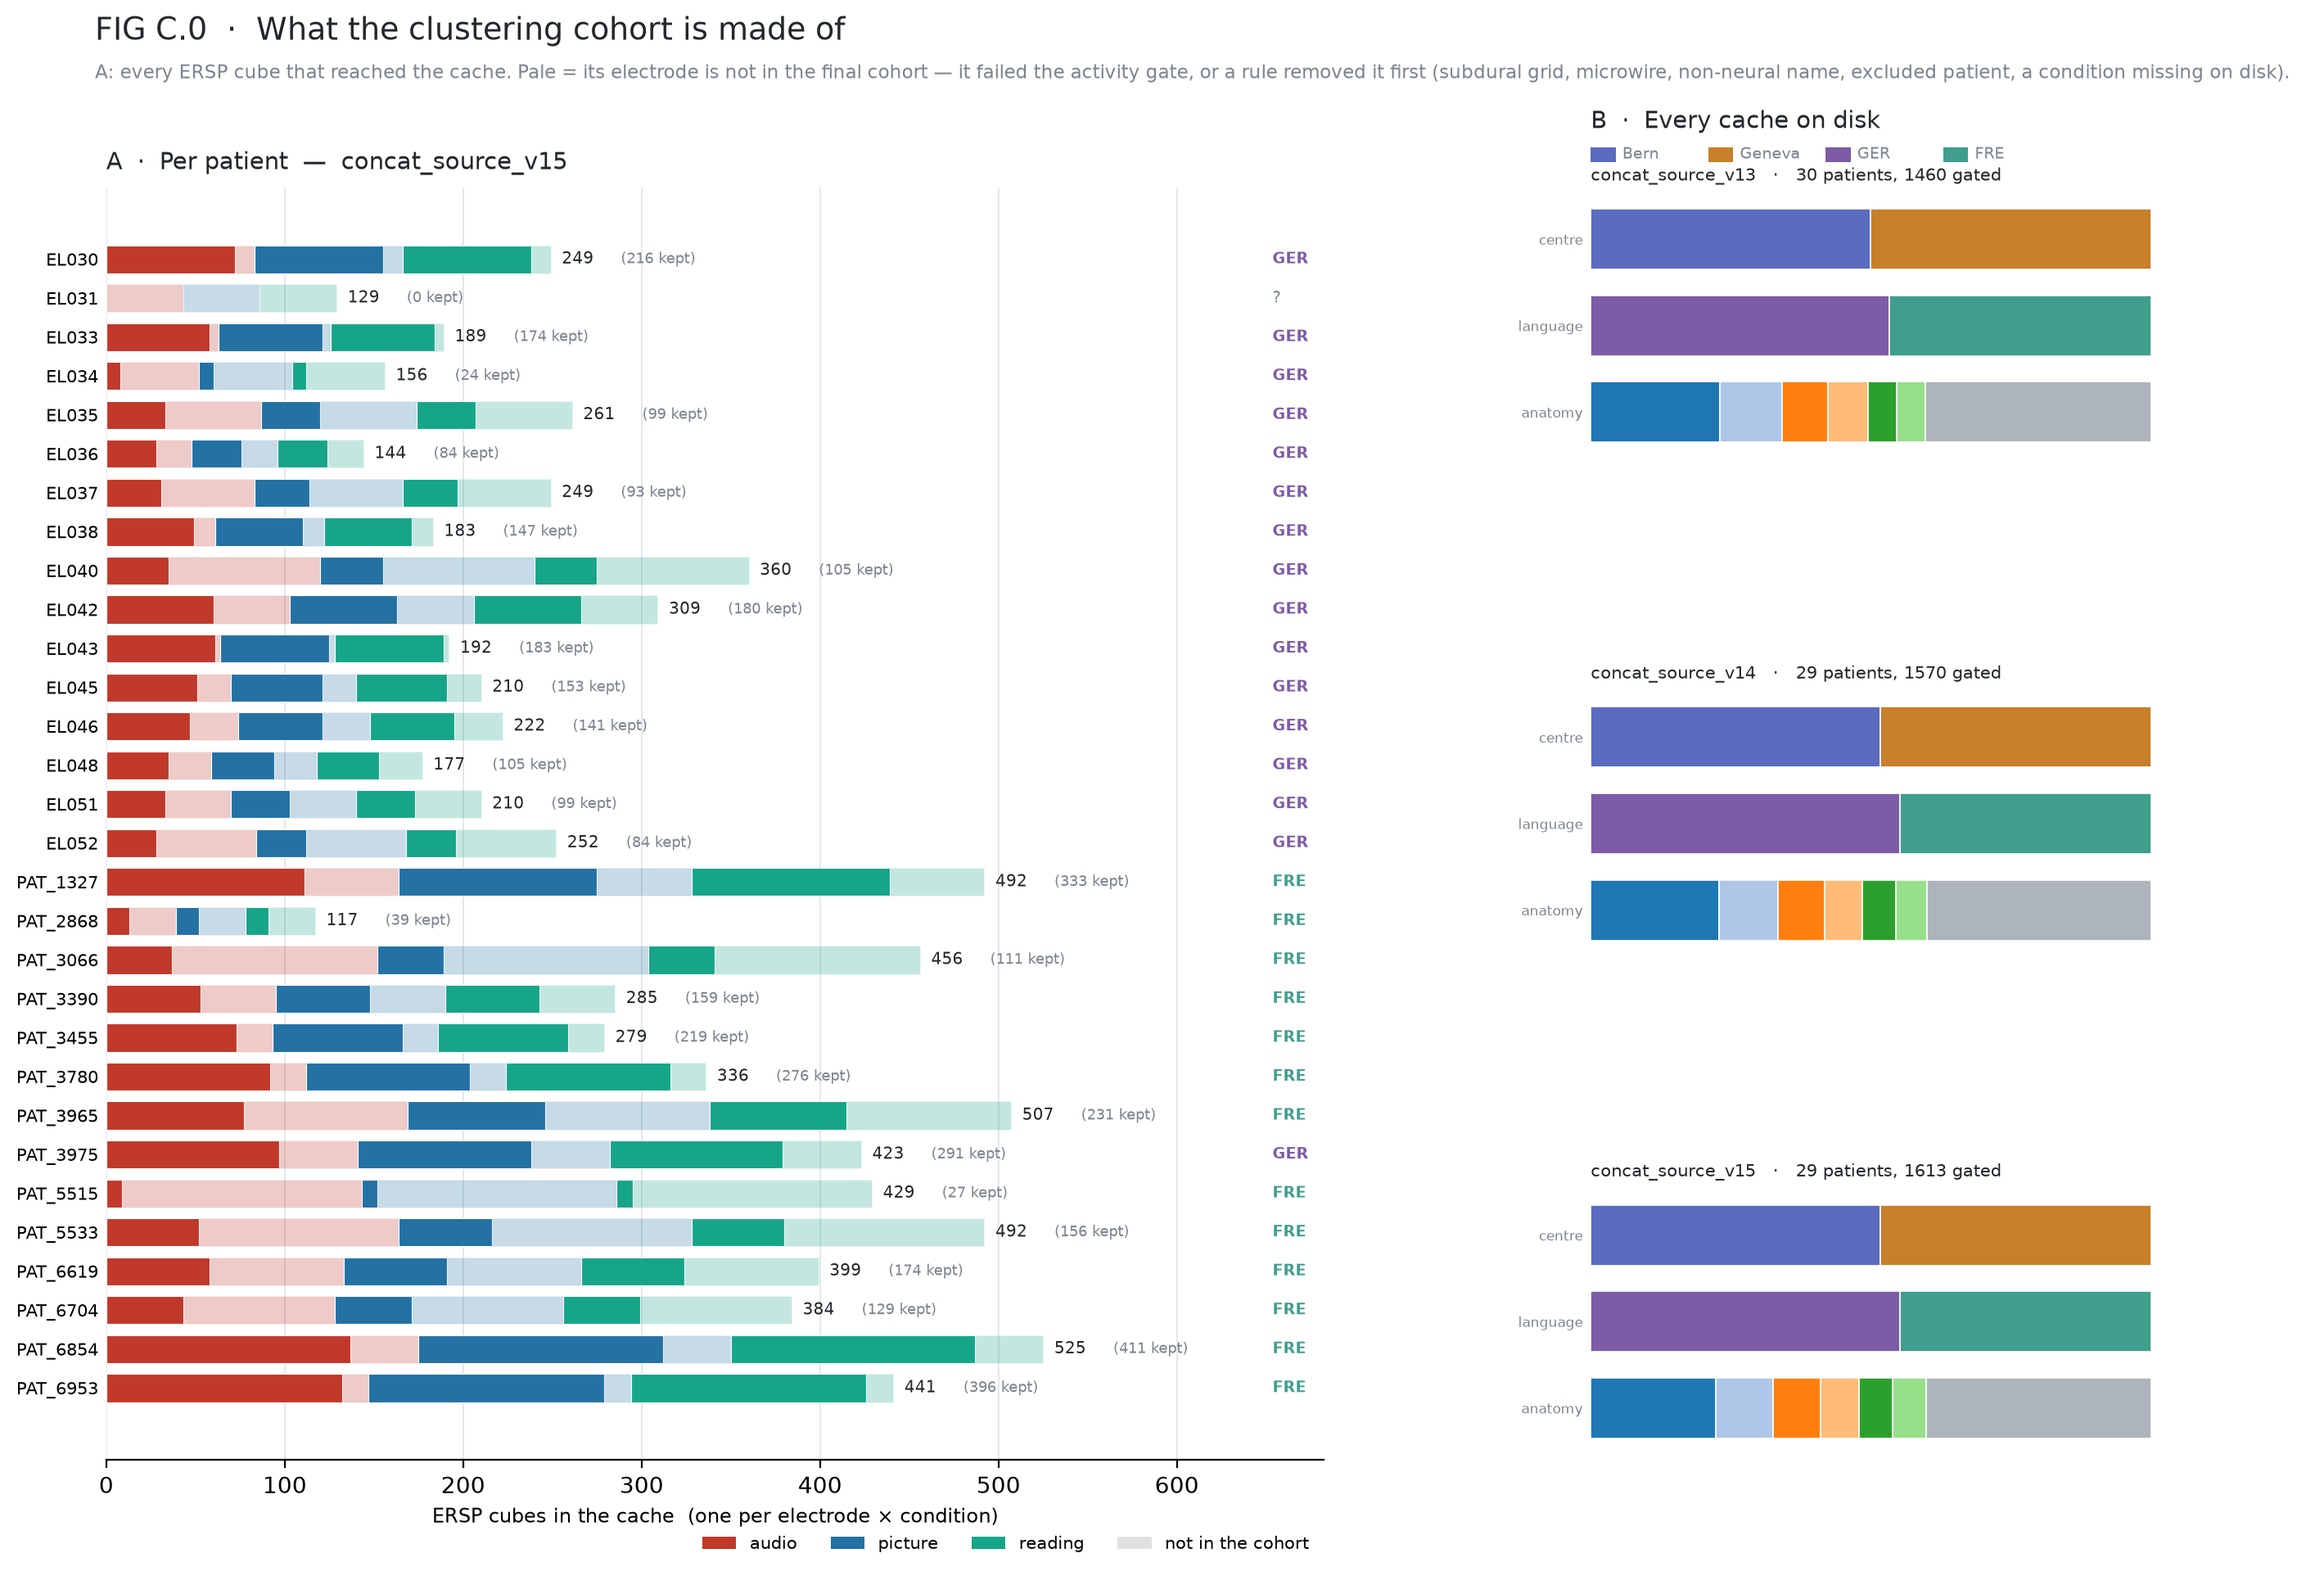
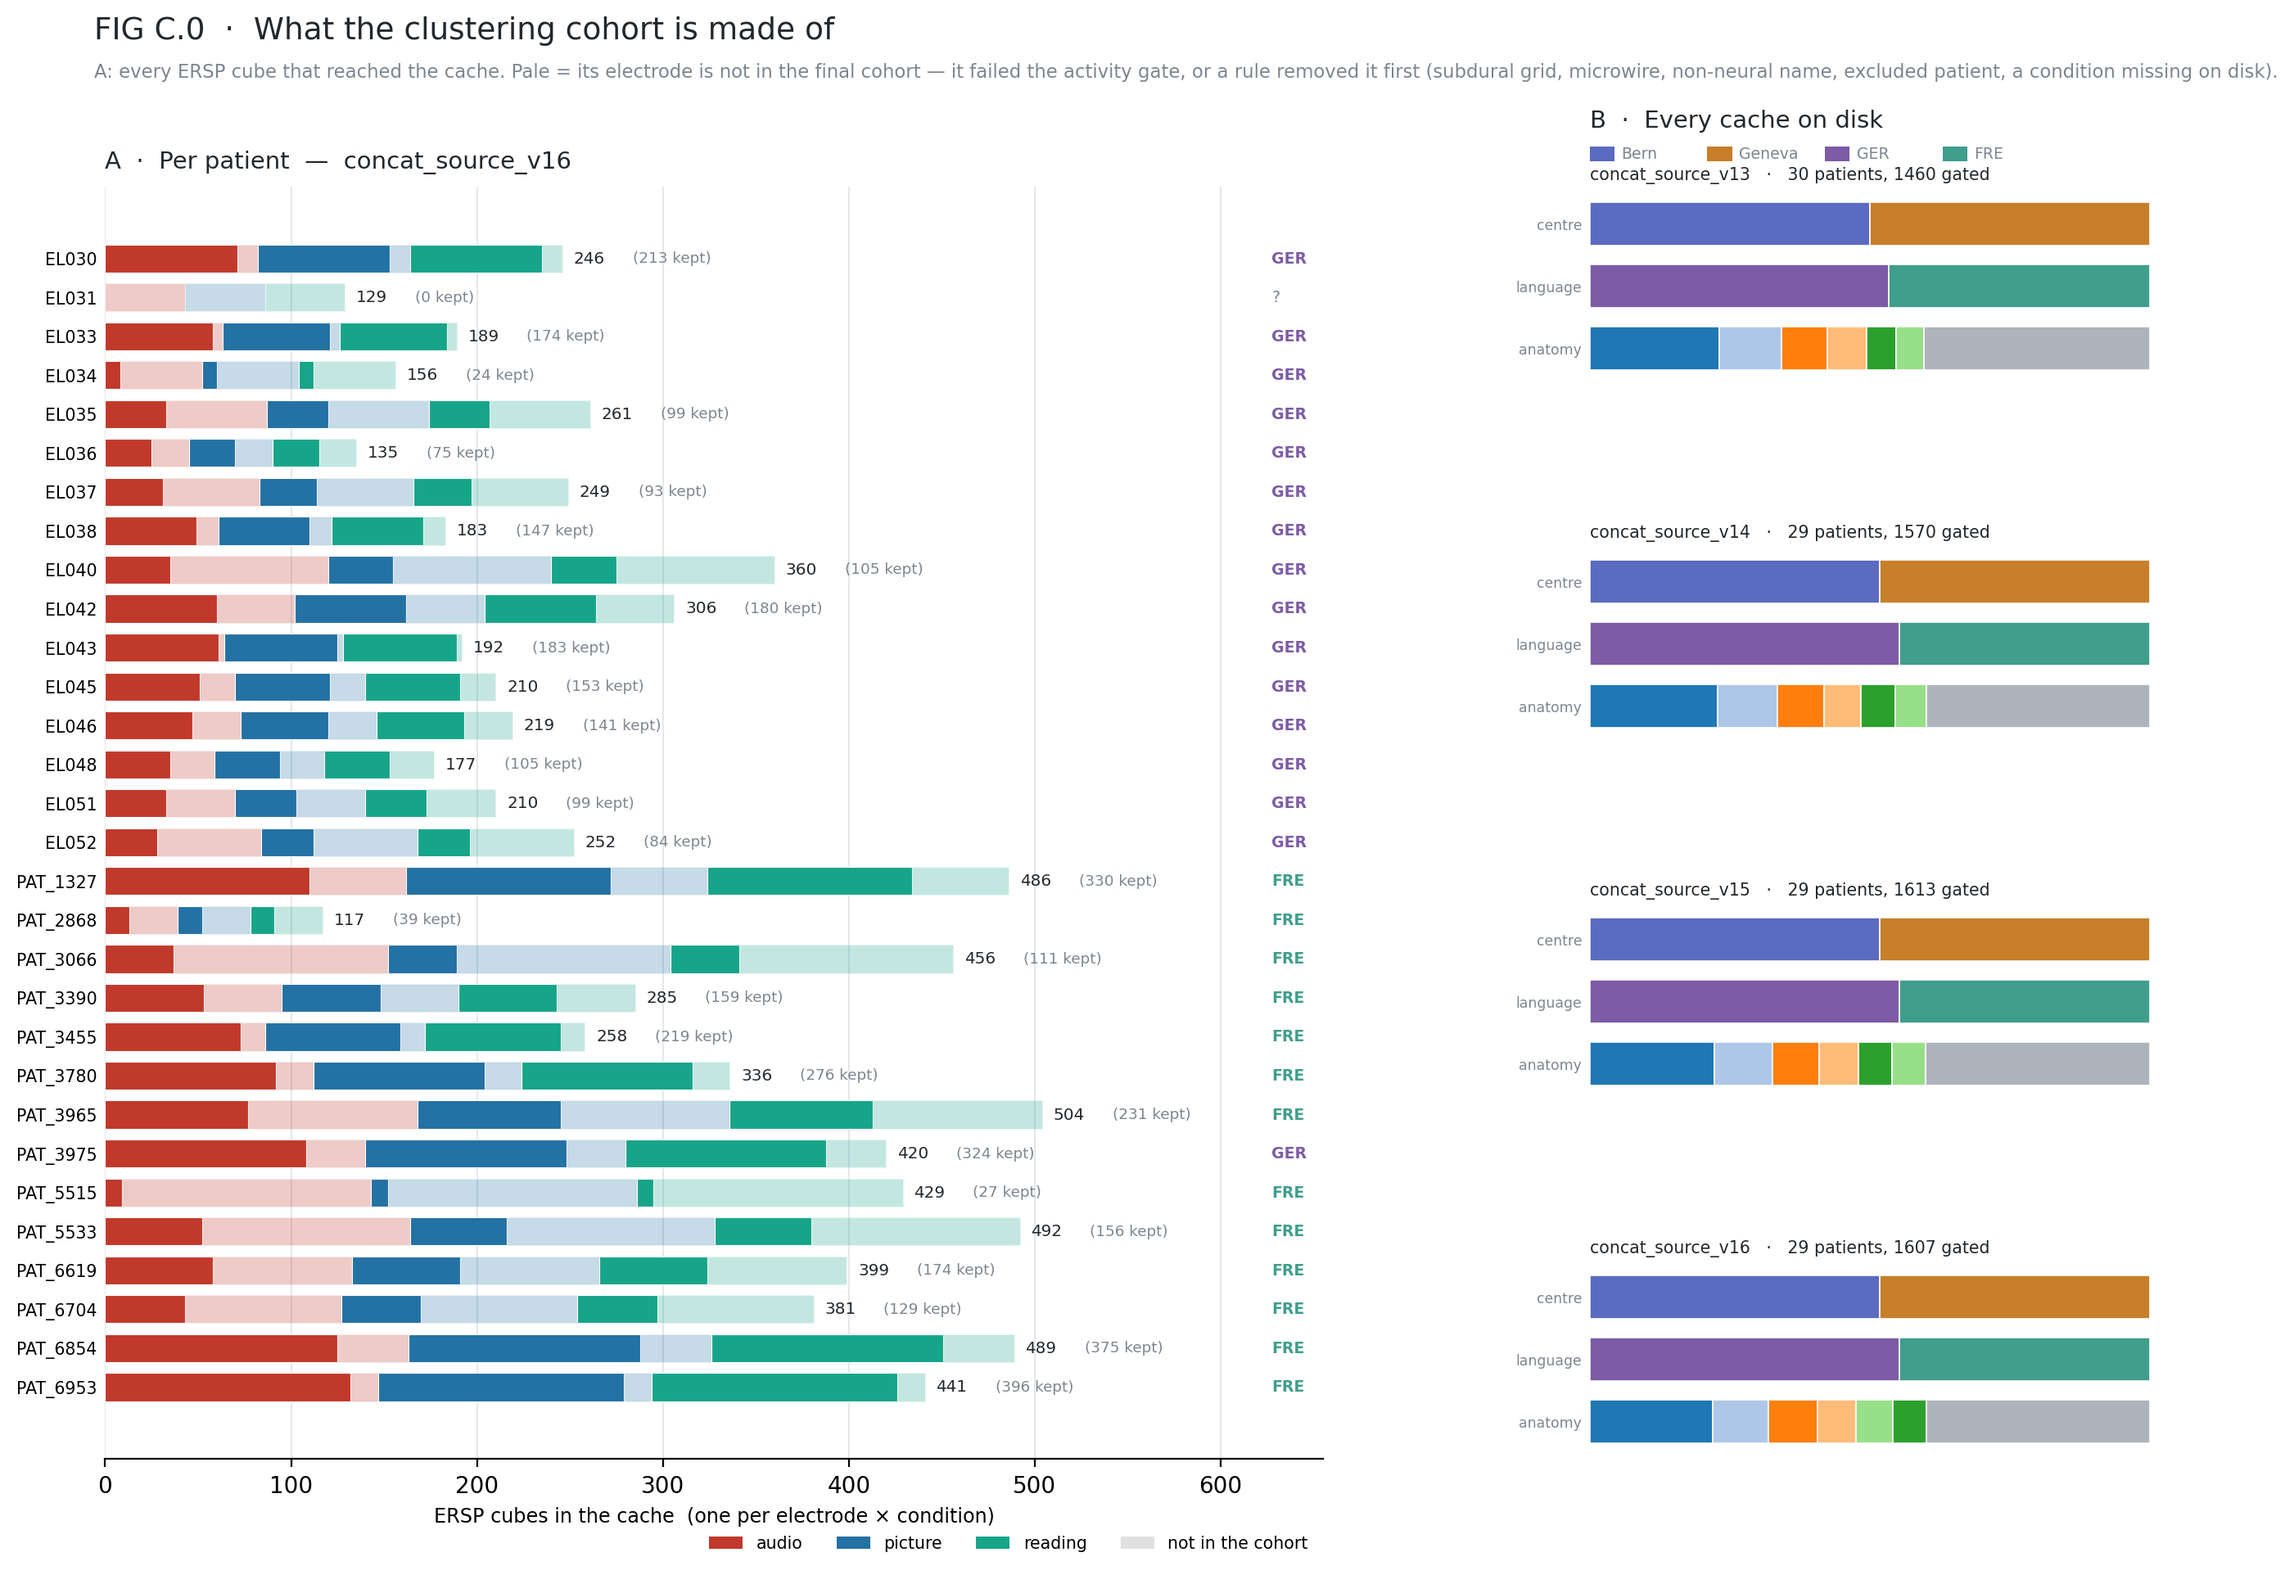
v16: the audit after the 2026-10-12 reruns, FIG C.0 redrawn by the v16 build, and the cluster statistics (249) of the v16 runs finished so far (concat_hg and concat_rawds at K 7)

diff --git a/01_FBM_Analysis/outputs/03_ERSP/audit_140.md b/01_FBM_Analysis/outputs/03_ERSP/audit_140.md
@@ -1,4 +1,4 @@
-# 140 run audit - fmax 400 Hz - 2026-10-12 17:13
+# 140 run audit - fmax 400 Hz - 2026-10-12 18:09
 
 31 patients in cfg.patient_ids; 31 with a log; 30 ok. Cube tree: `outputs\03_ERSP`.
 
@@ -33,7 +33,7 @@
 | PAT_3390 | HUG | 2026-09-30 21:42 | 15.1 | ok | 170-1222 s | 130 | 119 | 0 | · | 1 | WM reference, 22 contacts (skipped as data) | BIDS TSV | 22 | · | · | 95 | 0 | · | PHG12 |
 | PAT_3415 | HUG | 2026-09-30 20:59 | 5.0 | ok | 30-1500 s | 171 | 149 | 96 | · | 18 | WM reference, 6 contacts (skipped as data) | BIDS TSV | 6 | HLG17 HLG18 | IMG8 IPG15 | 29 | 0 | · | HLG1 HLG2 HLG3 HLG4 HLG5 HLG6 HLG7 HLG8 HLG9 HLG10 HLG11 HLG12 HLG13 HLG14 HLG15 HLG16 |
 | PAT_3965 | HUG | 2026-10-05 23:06 | 32.4 | ok | 40-1311 s | 233 | 222 | 4 | · | 7 | WM reference, 43 contacts (skipped as data) | BIDS TSV | 43 | CMD12 | · | 168 | 0 | · | cmd11 y1 y2 y3 y4 had2 |
-| PAT_3975 | HUG | 2026-10-12 15:34 | 30.4 | ok | 200-1550 s | 226 | 212 | 8 | · | 53 | WM reference, 11 contacts (MANUAL list) | BIDS TSV | 11 | · | · | 151 | 0 | · | TPG1 PHD1 PHD2 PHD3 PHD4 PHD5 PHD6 HAG1 HAG2 HAG3 HAD1 HAD2 HAD3 HAD4 FOD1 TPG2 TPG3 TPG4 TPG5 TPD1 TPD2 TPD3 TPD4 TPD5 AD1 AD2 AD3 AD4 AD5 AD6 AD7 AD8 AD9 AD10 AG1 AG2 AG3 AG4 AG5 HAD5 HAD6 HAD7 HAD8 PHG1 PHG2 AG6 IAG1 IAG2 IAG3 IAG4 IMD16 IMD17 IMD18 |
+| PAT_3975 | HUG | 2026-10-12 15:34 | 30.4 | ok | 200-1550 s | 226 | 212 | 8 | · | 53 | WM reference, 11 contacts (MANUAL list) | BIDS TSV | 11 | · | · | 140 | 0 | · | TPG1 PHD1 PHD2 PHD3 PHD4 PHD5 PHD6 HAG1 HAG2 HAG3 HAD1 HAD2 HAD3 HAD4 FOD1 TPG2 TPG3 TPG4 TPG5 TPD1 TPD2 TPD3 TPD4 TPD5 AD1 AD2 AD3 AD4 AD5 AD6 AD7 AD8 AD9 AD10 AG1 AG2 AG3 AG4 AG5 HAD5 HAD6 HAD7 HAD8 PHG1 PHG2 AG6 IAG1 IAG2 IAG3 IAG4 IMD16 IMD17 IMD18 |
 | PAT_3780 | HUG | 2026-10-07 22:12 | 19.3 | ok | none | 152 | 136 | 5 | · | 5 | WM reference, 15 contacts (skipped as data) | BIDS TSV | 15 | · | · | 112 | 0 | · | FAP9 HAG1 HAG2 TPG1 TPG2 |
 | PAT_6953 | HUG | 2026-09-30 20:17 | 22.0 | ok | 189-1182 s | 193 | 182 | 5 | · | 0 | WM reference, 30 contacts (skipped as data) | BIDS TSV | 30 | · | · | 147 | 0 | · | · |
 | PAT_1327 | HUG | 2026-09-30 19:57 | 28.1 | ok | none | 236 | 224 | 10 | · | 8 | WM reference, 44 contacts (skipped as data) | BIDS TSV | 44 | · | · | 162 | 0 | · | CAG5 CPG1 IAG10 PHG2 PHG3 FOD7 HAG2 AG8 |
@@ -69,7 +69,7 @@
 | PAT_3390 | 53 | 46 | 46 | 95 | 54 | 49 | 49 | 95 | 53 | 43 | 43 | 95 | 103x300 | 0 | audio/picture/reading |
 | PAT_3415 | 53 | 45 | 45 | 29 | 54 | 49 | 49 | 29 | 53 | 45 | 45 | 29 | 103x300 | 0 | audio/picture/reading |
 | PAT_3965 | 50 | 45 | 45 | 168 | 51 | 48 | 48 | 168 | 51 | 43 | 43 | 168 | 103x300 | 0 | audio/picture/reading |
-| PAT_3975 | 50 | 40 | 40 | 151 | 50 | 40 | 40 | 151 | 50 | 29 | 29 | 151 | 103x300 | 0 | audio/picture/reading |
+| PAT_3975 | 50 | 40 | 40 | 140 | 50 | 40 | 40 | 140 | 50 | 29 | 29 | 140 | 103x300 | 0 | audio/picture/reading |
 | PAT_3780 | 50 | 39 | 39 | 112 | 51 | 46 | 46 | 112 | 49 | 42 | 42 | 112 | 103x300 | 0 | audio/picture/reading |
 | PAT_6953 | 53 | 39 | 39 | 147 | 51 | 42 | 42 | 147 | 53 | 38 | 38 | 147 | 103x300 | 0 | audio/picture/reading |
 | PAT_1327 | 52 | 34 | 34 | 162 | 54 | 51 | 51 | 162 | 53 | 43 | 43 | 162 | 103x300 | 0 | audio/picture/reading |
@@ -105,7 +105,7 @@
 | PAT_3390 | interp | per shaft | · | 12/88 over 11 shafts | 0 | 4 | 8/88 over 11 shafts | 0 | 5 | 10/88 over 11 shafts | 0 | 6 | 15 | 95 | 95 | 190 | 95 |
 | PAT_3415 | interp | per shaft | · | 10/24 over 3 shafts | 0 | 1 | 8/24 over 3 shafts | 0 | 2 | 8/24 over 3 shafts | 0 | 1 | 4 | 29 | 29 | 58 | 29 |
 | PAT_3965 | interp | per shaft | · | 49/144 over 18 shafts | 0 | 9 | 49/144 over 18 shafts | 0 | 5 | 52/144 over 18 shafts | 0 | 5 | 19 | 168 | 168 | 336 | 168 |
-| PAT_3975 | interp | per shaft | · | 11/128 over 16 shafts | 0 | 7 | 11/128 over 16 shafts | 0 | 6 | 13/128 over 16 shafts | 0 | 8 | 21 | 151 | 151 | 302 | 151 |
+| PAT_3975 | interp | per shaft | · | 11/128 over 16 shafts | 0 | 7 | 11/128 over 16 shafts | 0 | 6 | 13/128 over 16 shafts | 0 | 8 | 21 | 140 | 140 | 280 | 140 |
 | PAT_3780 | interp | per shaft | · | 13/104 over 13 shafts | 0 | 13 | 16/104 over 13 shafts | 0 | 12 | 16/104 over 13 shafts | 0 | 12 | 37 | 112 | 112 | 224 | 112 |
 | PAT_6953 | interp | per shaft | · | 30/128 over 16 shafts | 0 | 5 | 31/128 over 16 shafts | 0 | 4 | 33/128 over 16 shafts | 0 | 7 | 16 | 147 | 147 | 294 | 147 |
 | PAT_1327 | interp | per shaft | · | 40/144 over 18 shafts | 0 | 3 | 38/144 over 18 shafts | 0 | 4 | 36/144 over 18 shafts | 0 | 4 | 11 | 162 | 162 | 324 | 162 |
